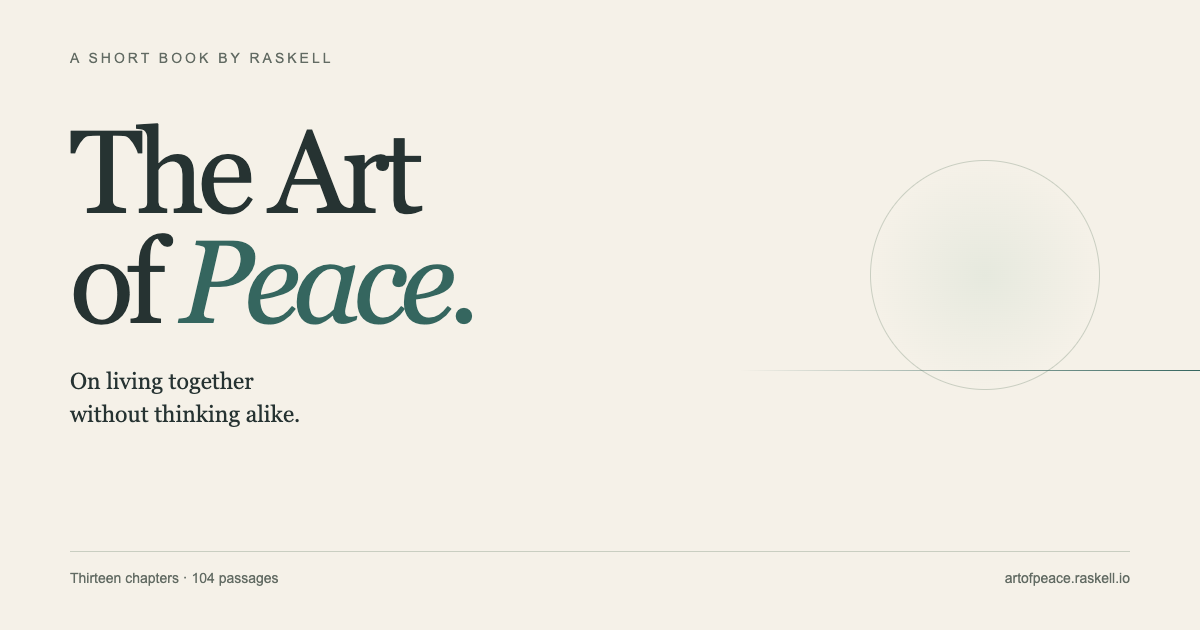
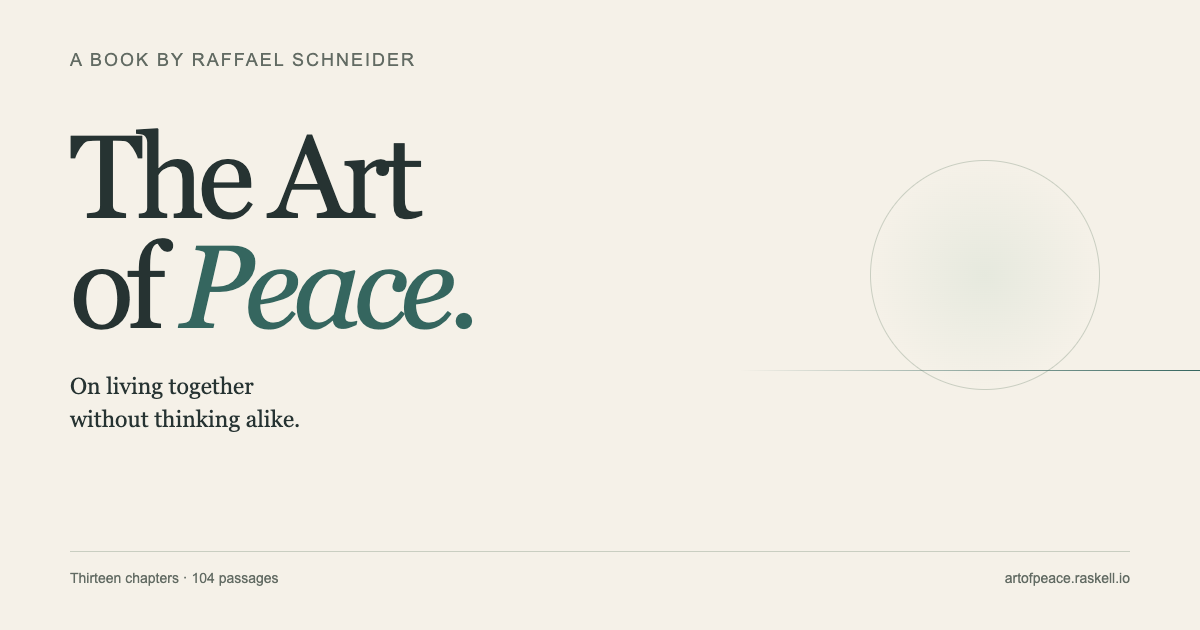
Credit Raffael Schneider as the book author

diff --git a/design/landing-open-book.html b/design/landing-open-book.html
@@ -1,1 +1,1 @@
-<!doctype html><html lang="en"><head><meta charset="utf-8"><meta name="viewport" content="width=device-width, initial-scale=1"><meta name="robots" content="noindex,nofollow"><title>01 · Open title spread · The Art of Peace</title><link rel="icon" href="data:,"><link rel="stylesheet" href="landing.css"><script src="passages.js" defer></script><script src="landing-preview.js" defer></script></head><body class="spread"><a class="skip" href="#main">Skip to introduction</a><header class="site-top"><a class="brand" href="#">raskell<span class="label">A small book</span></a><nav aria-label="Book navigation"><a href="#contents">Contents</a><a data-book="about/" target="_blank" rel="noopener">About</a><a data-book="read/" target="_blank" rel="noopener">Read ↗</a></nav></header><main id="main"><section class="title-spread" aria-labelledby="title"><div class="verso"><p class="label">Nago Bay, Okinawa</p><blockquote>On living together<br>without thinking<br><em>alike.</em></blockquote><p class="verso-note">These pages began with a thought during a morning swim in Nago Bay.</p><span class="page-number">i</span></div><div class="recto"><p class="label">First manuscript</p><h1 id="title">The Art<br>of <em>Peace.</em></h1><p class="subtitle">A short book<br>by raskell</p><a class="arrow-link" data-book="read/" target="_blank" rel="noopener">Begin reading <b aria-hidden="true">↗</b></a><span class="page-number">ii</span></div></section><section class="contents-spread" id="contents"><div><p class="label">Contents</p><h2>A place for difference.</h2><p class="intro">Thirteen chapters on the practice of peace. Read in order, or begin where you are.</p></div><ol class="chapter-list" data-chapters></ol><noscript><p><a data-book="" href="http://127.0.0.1:1118/#contents" target="_blank" rel="noopener">Explore all thirteen chapters ↗</a></p></noscript></section></main><footer class="spread-footer"><div><p class="label">Colophon</p><h2>The Art of Peace</h2><p class="colophon">A book by <a href="https://raskell.io/" target="_blank" rel="noopener author">raskell</a>.<br>First manuscript · Thirteen chapters · 104 passages</p></div><div><p class="colophon">Independent thought. Voluntary cooperation.<br>Care for what we share.</p><div class="footer-links"><a data-book="about/" target="_blank" rel="noopener">About the book</a><a data-book="book.md" target="_blank" rel="noopener">Plain text ↓</a></div><span class="end-mark" aria-hidden="true"></span></div></footer></body></html>
+<!doctype html><html lang="en"><head><meta charset="utf-8"><meta name="viewport" content="width=device-width, initial-scale=1"><meta name="robots" content="noindex,nofollow"><title>01 · Open title spread · The Art of Peace</title><link rel="icon" href="data:,"><link rel="stylesheet" href="landing.css"><script src="passages.js" defer></script><script src="landing-preview.js" defer></script></head><body class="spread"><a class="skip" href="#main">Skip to introduction</a><header class="site-top"><a class="brand" href="#">raskell<span class="label">A small book</span></a><nav aria-label="Book navigation"><a href="#contents">Contents</a><a data-book="about/" target="_blank" rel="noopener">About</a><a data-book="read/" target="_blank" rel="noopener">Read ↗</a></nav></header><main id="main"><section class="title-spread" aria-labelledby="title"><div class="verso"><p class="label">Nago Bay, Okinawa</p><blockquote>On living together<br>without thinking<br><em>alike.</em></blockquote><p class="verso-note">These pages began with a thought during a morning swim in Nago Bay.</p><span class="page-number">i</span></div><div class="recto"><p class="label">First manuscript</p><h1 id="title">The Art<br>of <em>Peace.</em></h1><p class="subtitle">A short book<br>by Raffael Schneider</p><a class="arrow-link" data-book="read/" target="_blank" rel="noopener">Begin reading <b aria-hidden="true">↗</b></a><span class="page-number">ii</span></div></section><section class="contents-spread" id="contents"><div><p class="label">Contents</p><h2>A place for difference.</h2><p class="intro">Thirteen chapters on the practice of peace. Read in order, or begin where you are.</p></div><ol class="chapter-list" data-chapters></ol><noscript><p><a data-book="" href="http://127.0.0.1:1118/#contents" target="_blank" rel="noopener">Explore all thirteen chapters ↗</a></p></noscript></section></main><footer class="spread-footer"><div><p class="label">Colophon</p><h2>The Art of Peace</h2><p class="colophon">A book by <a href="https://raskell.io/" target="_blank" rel="noopener author">Raffael Schneider</a>.<br>First manuscript · Thirteen chapters · 104 passages</p></div><div><p class="colophon">Independent thought. Voluntary cooperation.<br>Care for what we share.</p><div class="footer-links"><a data-book="about/" target="_blank" rel="noopener">About the book</a><a data-book="book.md" target="_blank" rel="noopener">Plain text ↓</a></div><span class="end-mark" aria-hidden="true"></span></div></footer></body></html>

diff --git a/design/landing-shoreline.html b/design/landing-shoreline.html
@@ -1,1 +1,1 @@
-<!doctype html><html lang="en"><head><meta charset="utf-8"><meta name="viewport" content="width=device-width, initial-scale=1"><meta name="robots" content="noindex,nofollow"><title>02 · The shoreline · The Art of Peace</title><link rel="icon" href="data:,"><link rel="stylesheet" href="landing.css"><script src="passages.js" defer></script><script src="landing-preview.js" defer></script></head><body class="shore"><a class="skip" href="#main">Skip to introduction</a><header class="site-top"><a class="brand" href="#"><span class="bay-mark" aria-hidden="true"></span>raskell</a><nav aria-label="Book navigation"><a href="#contents">Contents</a><a data-book="about/" target="_blank" rel="noopener">About</a><a data-book="read/" target="_blank" rel="noopener">Read ↗</a></nav></header><main id="main"><section class="bay-hero" aria-labelledby="title"><p class="label">A thought from Nago Bay</p><h1 id="title">The Art<br>of <em>Peace.</em></h1><p class="subtitle">On living together<br>without thinking alike.</p><div class="bay-foot"><a class="arrow-link" data-book="read/" target="_blank" rel="noopener">Begin reading <b aria-hidden="true">↗</b></a><p class="small">A short book by raskell<br>First manuscript</p></div></section><section class="shore-intro"><h2>Room to disagree.<br>Care for what<br>we share.</h2><p>These pages began with a thought during a morning swim in Nago Bay. Thirteen chapters explore independent thought, voluntary cooperation, and the boundaries that let people live together.</p></section><section class="bay-contents" id="contents"><p class="label">Thirteen chapters · Begin anywhere</p><ol class="chapter-list" data-chapters></ol><noscript><p><a data-book="" href="http://127.0.0.1:1118/#contents" target="_blank" rel="noopener">Explore all thirteen chapters ↗</a></p></noscript></section></main><footer class="shore-footer"><div class="closing"><h2>Keep what helps.<br><em>Question what does not.</em></h2><a class="arrow-link" data-book="read/" target="_blank" rel="noopener">Begin reading <b aria-hidden="true">↗</b></a></div><div class="colophon"><p>A book by <a href="https://raskell.io/" target="_blank" rel="noopener author">raskell</a><br>Conceived in Nago Bay, Okinawa</p><div class="footer-links"><a data-book="about/" target="_blank" rel="noopener">About the book</a><a data-book="book.md" target="_blank" rel="noopener">Plain text ↓</a></div><p>First manuscript<br>104 passages</p></div></footer></body></html>
+<!doctype html><html lang="en"><head><meta charset="utf-8"><meta name="viewport" content="width=device-width, initial-scale=1"><meta name="robots" content="noindex,nofollow"><title>02 · The shoreline · The Art of Peace</title><link rel="icon" href="data:,"><link rel="stylesheet" href="landing.css"><script src="passages.js" defer></script><script src="landing-preview.js" defer></script></head><body class="shore"><a class="skip" href="#main">Skip to introduction</a><header class="site-top"><a class="brand" href="#"><span class="bay-mark" aria-hidden="true"></span>raskell</a><nav aria-label="Book navigation"><a href="#contents">Contents</a><a data-book="about/" target="_blank" rel="noopener">About</a><a data-book="read/" target="_blank" rel="noopener">Read ↗</a></nav></header><main id="main"><section class="bay-hero" aria-labelledby="title"><p class="label">A thought from Nago Bay</p><h1 id="title">The Art<br>of <em>Peace.</em></h1><p class="subtitle">On living together<br>without thinking alike.</p><div class="bay-foot"><a class="arrow-link" data-book="read/" target="_blank" rel="noopener">Begin reading <b aria-hidden="true">↗</b></a><p class="small">A short book by Raffael Schneider<br>First manuscript</p></div></section><section class="shore-intro"><h2>Room to disagree.<br>Care for what<br>we share.</h2><p>These pages began with a thought during a morning swim in Nago Bay. Thirteen chapters explore independent thought, voluntary cooperation, and the boundaries that let people live together.</p></section><section class="bay-contents" id="contents"><p class="label">Thirteen chapters · Begin anywhere</p><ol class="chapter-list" data-chapters></ol><noscript><p><a data-book="" href="http://127.0.0.1:1118/#contents" target="_blank" rel="noopener">Explore all thirteen chapters ↗</a></p></noscript></section></main><footer class="shore-footer"><div class="closing"><h2>Keep what helps.<br><em>Question what does not.</em></h2><a class="arrow-link" data-book="read/" target="_blank" rel="noopener">Begin reading <b aria-hidden="true">↗</b></a></div><div class="colophon"><p>A book by <a href="https://raskell.io/" target="_blank" rel="noopener author">Raffael Schneider</a><br>Conceived in Nago Bay, Okinawa</p><div class="footer-links"><a data-book="about/" target="_blank" rel="noopener">About the book</a><a data-book="book.md" target="_blank" rel="noopener">Plain text ↓</a></div><p>First manuscript<br>104 passages</p></div></footer></body></html>

diff --git a/themes/shore/templates/base.html b/themes/shore/templates/base.html
@@ -6,11 +6,11 @@
   <meta charset="utf-8">
   <meta name="viewport" content="width=device-width, initial-scale=1">
   <meta name="color-scheme" content="light dark">
-  {% set page_title = config.title ~ " · raskell" %}
+  {% set page_title = config.title ~ " · " ~ config.extra.author %}
   {% set page_description = config.description %}
   {% if page is defined %}{% set page_title = page.title ~ " · " ~ config.title %}{% set page_description = page.description | default(value=config.description) %}{% endif %}
   <title>{{ page_title }}</title>
-  <meta name="author" content="Raffael Schneider (raskell)">
+  <meta name="author" content="{{ config.extra.author }}">
   <meta name="description" content="{{ page_description }}">
   {% if current_url is defined %}<link rel="canonical" href="{{ current_url }}">{% endif %}
   <link rel="icon" type="image/svg+xml" href="{{ get_url(path='favicon.svg') }}">
@@ -40,7 +40,7 @@
   {% set book_id = config.base_url ~ '/#book' %}
   {% set book_url = config.base_url ~ '/' %}
   {% set book_image = get_url(path='social.png') %}
-  <script type="application/ld+json">{"@context":"https://schema.org","@type":"Book","@id":{{ book_id | json_encode() | safe }},"name":{{ config.title | json_encode() | safe }},"description":{{ config.description | json_encode() | safe }},"url":{{ book_url | json_encode() | safe }},"inLanguage":"en","isAccessibleForFree":true,"keywords":{{ config.extra.seo.topics | json_encode() | safe }},"bookFormat":"https://schema.org/EBook","author":{"@type":"Person","@id":{{ config.extra.author_id | json_encode() | safe }},"name":"Raffael Schneider","alternateName":"raskell","url":{{ config.extra.author_url | json_encode() | safe }}},"image":{{ book_image | json_encode() | safe }}}</script>
+  <script type="application/ld+json">{"@context":"https://schema.org","@type":"Book","@id":{{ book_id | json_encode() | safe }},"name":{{ config.title | json_encode() | safe }},"description":{{ config.description | json_encode() | safe }},"url":{{ book_url | json_encode() | safe }},"inLanguage":"en","isAccessibleForFree":true,"keywords":{{ config.extra.seo.topics | json_encode() | safe }},"bookFormat":"https://schema.org/EBook","author":{"@type":"Person","@id":{{ config.extra.author_id | json_encode() | safe }},"name":{{ config.extra.author | json_encode() | safe }},"url":{{ config.extra.author_url | json_encode() | safe }}},"image":{{ book_image | json_encode() | safe }}}</script>
 </head>
 <body class="{% block body_class %}{% endblock body_class %}">
   <a class="skip-link" href="#main">Skip to text</a>
@@ -66,7 +66,7 @@
         </div>
       </details>
     </nav>
-    <a class="author-brand header-brand" href="{{ config.extra.author_url }}" rel="author" aria-label="{{ config.extra.author }} · Author’s website">{% set brand_id = "raskell-header" %}{% include "partials/author-brand.html" %}</a>
+    <a class="author-brand header-brand" href="{{ config.extra.web_presence_url }}" aria-label="{{ config.extra.web_presence_name }} · {{ config.extra.author }}’s tech and development blog">{% set brand_id = "raskell-header" %}{% include "partials/author-brand.html" %}</a>
   </header>
   <div class="reading-progress" aria-hidden="true"><span></span></div>
   <main id="main" tabindex="-1">{% block content %}{% endblock content %}</main>
@@ -75,9 +75,10 @@
     {% block footer_invitation %}{% endblock footer_invitation %}
     <div class="footer-directory">
       <div class="footer-author">
-        <a class="author-brand footer-brand" href="{{ config.extra.author_url }}" rel="author" aria-label="{{ config.extra.author }} · Author’s website">{% set brand_id = "raskell-footer" %}{% include "partials/author-brand.html" %}</a>
+        <p class="footer-byline">Written by <a href="{{ config.extra.author_url }}" rel="author">{{ config.extra.author }}</a></p>
+        <a class="author-brand footer-brand" href="{{ config.extra.web_presence_url }}" aria-label="{{ config.extra.web_presence_name }} · {{ config.extra.author }}’s tech and development blog">{% set brand_id = "raskell-footer" %}{% include "partials/author-brand.html" %}</a>
         <div class="footer-about">{{ config.extra.footer_about | default(value=config.description) | markdown | safe }}</div>
-        <p class="footer-location"><span>You are here</span><a href="{{ config.extra.author_url }}">Raskell</a><span aria-hidden="true">/</span><a href="{{ config.base_url }}">{{ config.title }}</a></p>
+        <p class="footer-location"><span>You are here</span><a href="{{ config.extra.web_presence_url }}">{{ config.extra.web_presence_name }}</a><span aria-hidden="true">/</span><a href="{{ config.base_url }}">{{ config.title }}</a></p>
       </div>
       <div class="footer-columns">
         {% for column in config.extra.footer_columns %}<div class="footer-column">

diff --git a/design/landing-folio.html b/design/landing-folio.html
@@ -1,1 +1,1 @@
-<!doctype html><html lang="en"><head><meta charset="utf-8"><meta name="viewport" content="width=device-width, initial-scale=1"><meta name="robots" content="noindex,nofollow"><title>03 · The folio · The Art of Peace</title><link rel="icon" href="data:,"><link rel="stylesheet" href="landing.css"><script src="passages.js" defer></script><script src="landing-preview.js" defer></script></head><body class="folio"><a class="skip" href="#main">Skip to introduction</a><header class="site-top"><a class="brand" href="#">The Art of Peace</a><span class="label">A book by raskell</span><nav aria-label="Book navigation"><a href="#contents">Contents</a><a data-book="about/" target="_blank" rel="noopener">About</a><a data-book="read/" target="_blank" rel="noopener">Read ↗</a></nav></header><main id="main"><section class="folio-hero" aria-labelledby="title"><div class="folio-kicker label"><span>Freedom · Difference · Fellowship</span><span>First manuscript</span></div><h1 id="title">The Art<br>of <em>Peace.</em></h1><div class="folio-bottom"><p>On living together<br>without thinking alike.</p><div class="entry"><span class="small">Thirteen chapters.<br>104 passages.</span><a class="arrow-link" data-book="read/" target="_blank" rel="noopener">Begin reading <b aria-hidden="true">↗</b></a></div></div></section><section class="folio-index" id="contents"><div><p class="label">The contents</p><h2>A place<br>for difference.</h2><p>Read in order, or begin with the chapter that meets you where you are.</p></div><ol class="chapter-list" data-chapters></ol><noscript><p><a data-book="" href="http://127.0.0.1:1118/#contents" target="_blank" rel="noopener">Explore all thirteen chapters ↗</a></p></noscript></section><section class="folio-origin"><span class="label">The beginning</span><p>These pages began with a thought during a morning swim in Nago Bay.</p></section></main><footer class="folio-footer"><div><a class="brand" href="https://raskell.io/" target="_blank" rel="noopener author">raskell ↗</a><p class="small">The Art of Peace · First manuscript</p></div><p class="colophon">Independent thought, voluntary cooperation, and room for outliers.</p><div class="footer-links"><a data-book="about/" target="_blank" rel="noopener">About the book</a><a data-book="book.md" target="_blank" rel="noopener">Plain text ↓</a></div></footer></body></html>
+<!doctype html><html lang="en"><head><meta charset="utf-8"><meta name="viewport" content="width=device-width, initial-scale=1"><meta name="robots" content="noindex,nofollow"><title>03 · The folio · The Art of Peace</title><link rel="icon" href="data:,"><link rel="stylesheet" href="landing.css"><script src="passages.js" defer></script><script src="landing-preview.js" defer></script></head><body class="folio"><a class="skip" href="#main">Skip to introduction</a><header class="site-top"><a class="brand" href="#">The Art of Peace</a><span class="label">A book by Raffael Schneider</span><nav aria-label="Book navigation"><a href="#contents">Contents</a><a data-book="about/" target="_blank" rel="noopener">About</a><a data-book="read/" target="_blank" rel="noopener">Read ↗</a></nav></header><main id="main"><section class="folio-hero" aria-labelledby="title"><div class="folio-kicker label"><span>Freedom · Difference · Fellowship</span><span>First manuscript</span></div><h1 id="title">The Art<br>of <em>Peace.</em></h1><div class="folio-bottom"><p>On living together<br>without thinking alike.</p><div class="entry"><span class="small">Thirteen chapters.<br>104 passages.</span><a class="arrow-link" data-book="read/" target="_blank" rel="noopener">Begin reading <b aria-hidden="true">↗</b></a></div></div></section><section class="folio-index" id="contents"><div><p class="label">The contents</p><h2>A place<br>for difference.</h2><p>Read in order, or begin with the chapter that meets you where you are.</p></div><ol class="chapter-list" data-chapters></ol><noscript><p><a data-book="" href="http://127.0.0.1:1118/#contents" target="_blank" rel="noopener">Explore all thirteen chapters ↗</a></p></noscript></section><section class="folio-origin"><span class="label">The beginning</span><p>These pages began with a thought during a morning swim in Nago Bay.</p></section></main><footer class="folio-footer"><div><a class="brand" href="https://raskell.io/" target="_blank" rel="noopener author">raskell ↗</a><p class="small">The Art of Peace · First manuscript</p></div><p class="colophon">Independent thought, voluntary cooperation, and room for outliers.</p><div class="footer-links"><a data-book="about/" target="_blank" rel="noopener">About the book</a><a data-book="book.md" target="_blank" rel="noopener">Plain text ↓</a></div></footer></body></html>

diff --git a/scripts/social.html b/scripts/social.html
@@ -1,5 +1,5 @@
 <!doctype html>
 <html lang="en"><meta charset="utf-8"><title>The Art of Peace social card</title>
 <style>
-*{box-sizing:border-box}body{margin:0;width:1200px;height:630px;background:#f5f1e8;color:#263332;font-family:Georgia,serif;overflow:hidden;padding:50px 70px;position:relative}.meta{font:14px Arial,sans-serif;letter-spacing:3px;text-transform:uppercase;color:#626b63}h1{font-size:118px;line-height:.93;font-weight:normal;letter-spacing:-7px;margin:52px 0 28px}em{color:#35665f}p{font-size:23px;line-height:1.4;margin:0}.sun{position:absolute;width:230px;height:230px;right:100px;top:160px;border:1px solid #c9cec1;border-radius:50%;background:radial-gradient(#e6e9de,transparent 70%)}.line{position:absolute;right:0;width:460px;top:370px;height:1px;background:linear-gradient(to right,transparent,#35665f)}footer{position:absolute;bottom:44px;left:70px;right:70px;display:flex;justify-content:space-between;border-top:1px solid #c9cec1;padding-top:18px;font:14px Arial,sans-serif;color:#626b63}
-</style><div class="meta">A short book by raskell</div><h1>The Art<br>of <em>Peace.</em></h1><p>On living together<br>without thinking alike.</p><div class="sun"></div><div class="line"></div><footer><span>Thirteen chapters · 104 passages</span><span>artofpeace.raskell.io</span></footer></html>
+*{box-sizing:border-box}body{margin:0;width:1200px;height:630px;background:#f5f1e8;color:#263332;font-family:Georgia,serif;overflow:hidden;padding:50px 70px;position:relative}.meta{font:18px Arial,sans-serif;letter-spacing:2px;text-transform:uppercase;color:#626b63}h1{font-size:118px;line-height:.93;font-weight:normal;letter-spacing:-7px;margin:52px 0 28px}em{color:#35665f}p{font-size:23px;line-height:1.4;margin:0}.sun{position:absolute;width:230px;height:230px;right:100px;top:160px;border:1px solid #c9cec1;border-radius:50%;background:radial-gradient(#e6e9de,transparent 70%)}.line{position:absolute;right:0;width:460px;top:370px;height:1px;background:linear-gradient(to right,transparent,#35665f)}footer{position:absolute;bottom:44px;left:70px;right:70px;display:flex;justify-content:space-between;border-top:1px solid #c9cec1;padding-top:18px;font:14px Arial,sans-serif;color:#626b63}
+</style><div class="meta">A book by Raffael Schneider</div><h1>The Art<br>of <em>Peace.</em></h1><p>On living together<br>without thinking alike.</p><div class="sun"></div><div class="line"></div><footer><span>Thirteen chapters · 104 passages</span><span>artofpeace.raskell.io</span></footer></html>

diff --git a/templates/about.html b/templates/about.html
@@ -7,13 +7,15 @@
     {{ opening_paragraphs[0] | markdown | safe }}
     <p>I work with computers and build things. Those habits inform these pages: preparing for mistakes, keeping a failure from spreading, sharing what is useful, and making repair possible.</p>
     <p>The peace I seek leaves people free to disagree. It protects independent thought and makes room for the outlier, while asking us to respect one another's boundaries and resist coercion.</p>
+    <h2>The author</h2>
+    <p>I am Raffael Schneider. Raskell is my tech and development blog and web presence; I write this book under my own name.</p>
     <h2>The form</h2>
     <p>The book brings together the brevity and strategic attention I admire in Sun Tzu's <em>The Art of War</em> with the warmth and imagery I love in Kahlil Gibran's <em>The Prophet</em>. Its thirteen chapters contain 104 original passages.</p>
     <h2>This manuscript</h2>
     <p>This is a first manuscript, developed with AI assistance from my ideas and conversations. It remains open to revision. These passages are principles to examine and practise; their application asks for judgment.</p>
     <p>You can read the <a href="{{ get_url(path='read/', trailing_slash=true) }}">complete book</a>, visit an individual chapter, or keep a <a href="{{ get_url(path='book.md') }}" download>Markdown copy</a>. The complete reading view also has a print layout.</p>
     <p>If a passage leaves you with a question, I would be glad to hear it. <a href="https://raskell.io/about/#contact">Write to me</a>.</p>
-    <p class="signature"><a href="{{ config.extra.author_url }}" rel="author">raskell</a></p>
+    <p class="signature"><a href="{{ config.extra.author_url }}" rel="author">{{ config.extra.author }}</a></p>
   </div>
 </article>
 {% endblock content %}

diff --git a/design/ux-proposals.html b/design/ux-proposals.html
@@ -28,7 +28,7 @@
         <header class="study-heading"><span class="study-number">01</span><div><p class="eyebrow">A volume to inhabit</p><h2 id="title-one">The open book</h2><p>A place in the book becomes a sentence you remember.</p></div><span class="effort">A gentle evolution</span></header>
         <div class="preview-mat">
           <div class="preview" id="demo-one">
-            <div class="book-top"><span class="book-wordmark">The Art of Peace</span><button type="button" id="return-place" class="quiet-button" hidden>Return to III.5 <span aria-hidden="true">↗</span></button><span class="book-author">raskell</span></div>
+            <div class="book-top"><span class="book-wordmark">The Art of Peace</span><button type="button" id="return-place" class="quiet-button" hidden>Return to III.5 <span aria-hidden="true">↗</span></button><span class="book-author">Raffael Schneider</span></div>
             <div class="locator" id="chapter-locator" aria-hidden="true"></div>
             <div class="open-layout">
               <nav id="chapter-rail" class="chapter-rail" aria-label="Preview chapters"></nav>

diff --git a/themes/shore/sass/book.scss b/themes/shore/sass/book.scss
@@ -152,3 +152,12 @@ body:has(dialog[open]) { overflow: hidden; }
 @import "shoreline";
 
 @import "chapter-art";
+
+/* The writer's name is distinct from the linked web-presence mark. */
+.book-byline { font: 1rem/1.5 var(--serif); color: var(--ink); }
+.book-byline a { text-decoration: none; border-bottom: 1px solid var(--rule); }
+.book-byline a:hover { border-bottom-color: currentColor; }
+.chapter-byline { margin: 1rem 0 0; }
+.bay-hero .book-byline { margin: 0 0 1.2rem; font-size: 1.15rem; }
+.footer-byline { color: #eef0e7; font: 1.15rem/1.5 var(--serif); margin: 0 0 1.5rem; }
+.footer-byline a { color: inherit; text-decoration: underline; text-underline-offset: .2em; text-decoration-color: #748f84; }

diff --git a/themes/shore/templates/macros.html b/themes/shore/templates/macros.html
@@ -11,6 +11,7 @@
   <header class="chapter-heading">
     <p class="eyebrow">{% if chapter.roman %}Chapter {{ chapter.roman }}{% elif chapter.slug == 'before-the-shore' %}An opening{% else %}A closing{% endif %}</p>
     {% if continuous %}<h2>{{ chapter.title }}</h2>{% else %}<h1>{{ chapter.title }}</h1>{% endif %}
+    {% if not continuous or chapter.slug == 'before-the-shore' %}<p class="book-byline chapter-byline">By <a href="{{ config.extra.author_url }}" rel="author">{{ config.extra.author }}</a></p>{% endif %}
     <span class="chapter-rule" aria-hidden="true"></span>
     {% include "partials/chapter-art.html" %}
   </header>

diff --git a/templates/index.html b/templates/index.html
@@ -11,6 +11,7 @@
   <p class="eyebrow">A thought from Nago Bay</p>
   <h1 id="book-title">The Art<br>of <em>Peace.</em></h1>
   <p class="subtitle">On living together<br>without thinking alike.</p>
+  <p class="book-byline">By <a href="{{ config.extra.author_url }}" rel="author">{{ config.extra.author }}</a></p>
   <div class="bay-foot">
     <div><a class="primary-link" href="{{ get_url(path='read/', trailing_slash=true) }}">Begin reading <span aria-hidden="true">↗</span></a><a class="resume-link" data-resume hidden></a></div>
   </div>

diff --git a/themes/shore/templates/partials/author-brand.html b/themes/shore/templates/partials/author-brand.html
@@ -1,1 +1,1 @@
-<span>{{ config.extra.author }}</span>
+<span>{{ config.extra.web_presence_name }}</span>

diff --git a/scripts/prepare.py b/scripts/prepare.py
@@ -69,7 +69,7 @@ def main():
     write("static/llms-full.txt", source)
     links = "\n".join(f'- [{s["title"]}]({base}/{s["slug"]}/)' for s in sections)
     write("static/llms.txt", f"# The Art of Peace\n\n> {config['extra']['subtitle']}\n\n"
-          f"By raskell. First manuscript. Original philosophical prose about preserving peace among people who remain free to disagree.\n\n"
+          f"By {config['extra']['author']}. First manuscript. Original philosophical prose about preserving peace among people who remain free to disagree.\n\n"
           f"## Editions\n\n- [Complete web book]({base}/read/)\n- [Markdown manuscript]({base}/book.md)\n"
           f"- [Full text]({base}/llms-full.txt)\n- [About the book]({base}/about/)\n\n## Contents\n\n{links}\n")
     print(f"Prepared {len(sections)} sections and 104 passages from manuscript.md")
